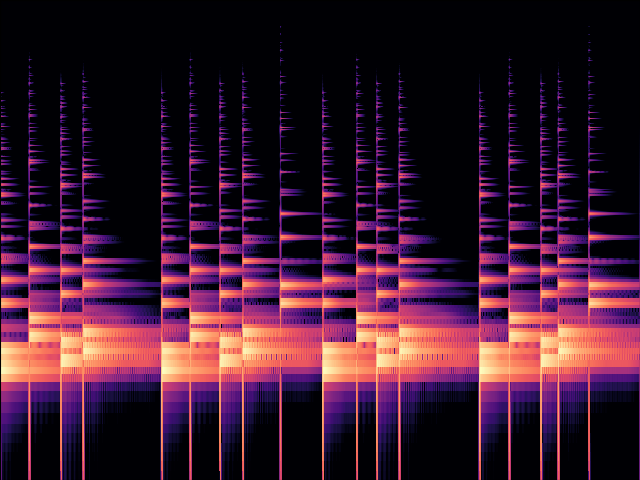
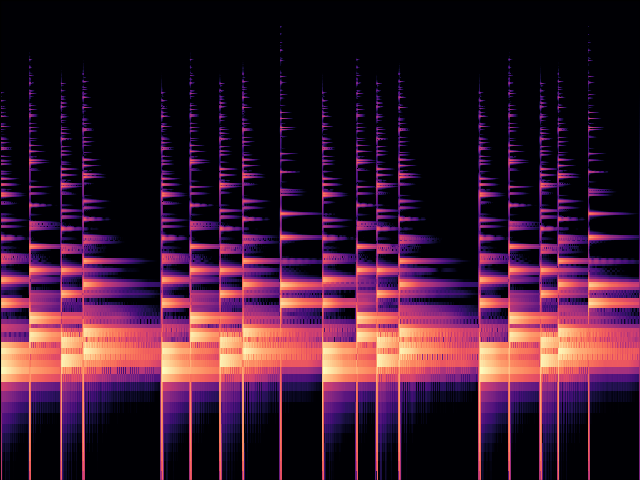
refactored stft_transformer and main

diff --git a/stft_transformer.py b/stft_transformer.py
@@ -3,41 +3,50 @@ import librosa.display
 import numpy as np
 import matplotlib.pyplot as plt
 import soundfile as sf
-
+from utils import AttributeDict
 from pydub import AudioSegment
 from pydub.playback import play
 import imageio
+from sklearn.preprocessing import MinMaxScaler
+from pickle import dump
+import os
 
 class StftTransformer:
     """
-    class is responsible to convert an audio to and from polar coordinates / complex numbers, 
+    class is responsible to convert an audio to and from complex coordinates / complex numbers, 
     and visualizing the file with an audio spectrogram
     """
-
-    def __init__(self, n_fft=200, rate=48000):
+    def __init__(self, n_fft, rate, audio_array, paths:AttributeDict):
+        self.experiment_path = paths.experiment     # root of our experiment
+        self.paths = paths
         self.rate = rate
-        self.hop_length = n_fft // 4
-        self.amplitudes = None
-        self.polar_coords = None
-        self.audio_out = None
+        self.hop_length = n_fft // 4                # hop length standard value
+        self.audio_out = None                       # for reconstructed audio
+        self.scaler_real, self.scaler_imag = None   # for scaling the complex numbers
 
-    def audio_to_polar(self, audio_array: np.array):
-        """sets the polar coordinates and amplitudes instance variable from the audio array"""
-        # open file
-        self.polar_coords = librosa.stft(
+        # converts audio to complex numbers
+        self.complex_coords, self.amplitudes = self._audio_to_complex(audio_array)
+        self._plot_spectrogram(paths.spectrogram)
+
+
+    def _audio_to_complex(self, audio_array: np.array):
+        """sets the complex coordinates and amplitudes instance variable from the audio array"""
+
+        complex_coords = librosa.stft(
             audio_array, hop_length=self.hop_length, window='hann', center=True)  # n_fft=2048,
-        self.amplitudes = np.abs(self.polar_coords)
+        amplitudes = np.abs(self.complex_coords)
+        return complex_coords, amplitudes
 
-    def polar_to_audio(self, outfile_path=None):
+    def complex_to_audio(self, outfile_path=None):
         """
-        inverse short term fourrier transform for audio file reconstruction from polar coordinates.
+        inverse short term fourrier transform for audio file reconstruction from complex coordinates.
         saves audiofile if path is provided
         """
 
-        assert str(type(self.polar_coords)) == "<class 'numpy.ndarray'>"
+        assert str(type(self.complex_coords)) == "<class 'numpy.ndarray'>"
 
         audio_array = librosa.istft(
-            self.polar_coords, hop_length=self.hop_length, window='hann')  # n_fft=2048,
+            self.complex_coords, hop_length=self.hop_length, window='hann')  # n_fft=2048,
         if (outfile_path != None):
             sf.write(outfile_path, audio_array, self.rate, subtype='PCM_24')
             print(f"saved the audio file to {outfile_path}")
@@ -45,23 +54,49 @@ class StftTransformer:
         # sets the audio out (array) instance variable from the saved file
         self.audio_out = AudioSegment.from_wav(outfile_path)
 
-    def polar_to_png(self, outfile_path:str):
+
+    def _scale_complex(self, real, imaginary):
+                
+        # make reversible scaler
+        self.scaler_real = MinMaxScaler()
+        self.scaler_imag = MinMaxScaler()
+        
+        self.scaler_real.fit(real)
+        self.scaler_imag.fit(imaginary)
+
+        real_scaled = self.scaler_real.transform(real)
+        imag_scaled = self.scaler_imag.transform(imaginary)
+
+        # save scalers for inverse later
+        dump(self.scaler_real, os.path.join(self.experiment_path, "scaler_real.pkl"))
+        dump(self.scaler_imag, os.path.join(self.experiment_path, "scaler_imag.pkl"))
+
+        return real_scaled, imag_scaled
+        
+
+
+    def complex_to_png(self):
         """
-        saves polar coordinates to png image
+        saves complex coordinates to png image
         """
-        assert str(type(self.polar_coords)) == "<class 'numpy.ndarray'>"
+        assert str(type(self.complex_coords)) == "<class 'numpy.ndarray'>"
 
         # put the real and imaginary numbers into separate dimensions
-        real = np.real(self.polar_coords)
-        imaginary = np.imag(self.polar_coords)
+        real = np.real(self.complex_coords)
+        imaginary = np.imag(self.complex_coords)
+        real_scaled, imag_scaled = self._scale_complex(real, imaginary)
+        realcomplex = np.stack([real_scaled, imag_scaled, np.ones(real.shape, dtype=np.float)], axis=2)
 
-        realcomplex = np.stack([real, imaginary, np.ones(real.shape, dtype=np.float)], axis=2)
+        # realcomplex = np.abs(realcomplex* 255)
+        imageio.imwrite(uri=self.paths.complex_coords, im=realcomplex)
+        imageio.imwrite(uri=os.path.join(self.experiment_path, "real_scaled.png"), im=real_scaled)
+        imageio.imwrite(uri=os.path.join(self.experiment_path, "imag_scaled.png"), im=imag_scaled)
+        print(f"saved the png files to {self.experiment_path}")
 
-        if (outfile_path != None):
-            imageio.imwrite(uri=outfile_path, im=realcomplex)
-            print(f"saved the png file to {outfile_path}")
 
-    def plot_spectrogram(self, spectrogram_path):
+    def _plot_spectrogram(self, spectrogram_path):
+        """ saves spectrogram image """
+
         fig, ax = plt.subplots()
         img = librosa.display.specshow(librosa.amplitude_to_db(self.amplitudes,
                                                                ref=np.max),
@@ -75,15 +110,6 @@ class StftTransformer:
         # fig.show()
         fig.savefig(spectrogram_path)
 
-        # # and also do the same with only the content
-        # content = self.amplitudes
-        # fig = plt.figure(frameon=False)
-        # fig.set_size_inches(5,5)
-        # ax = plt.Axes(fig, [0., 0., 1., 1.])
-        # ax.set_axis_off()
-        # fig.add_axes(ax)
-        # ax.imshow(content, aspect='auto')
-        # fig.savefig("nobords.png")
 
     def play_sounds(self):
         assert self.audio_out != None

diff --git a/main.py b/main.py
@@ -1,57 +1,65 @@
 import librosa
 import librosa.display
-import numpy as  np
+from enum import Enum
+import os
+from datetime import datetime
 
+from utils import AttributeDict
 from stft_transformer import StftTransformer
 from train import train
 
-def generate_spectrogram(transformer:StftTransformer, spectrogram_path:str):
-    transformer.plot_spectrogram(spectrogram_path) # which saves it
-
-
-from enum import Enum
-
 class Experiment(Enum):
-    TRAIN_RGB = 1
-    TRAIN_POLARS = 2
+    RGB = 1
+    COMPLEX = 2
+
+def set_paths(sound_name):
+    "puts all the paths in a dict"
+    
+    experiment_root = os.path.join("experiments",datetime.now().strftime("%m%d_%H%M%S"))
+    os.mkdir(experiment_root)
+
+    paths = {
+        "experiment" : experiment_root,
+        "input_wav" : os.path.join("samples", f"{sound_name}.wav"),
+        "reconstructed_wav" : os.path.join(experiment_root, f"{sound_name}_reconstruced.wav"),
+        "spectrogram" : os.path.join(experiment_root, f"{sound_name}_spect.png"),
+        "complex_coords" : os.path.join(experiment_root, f"{sound_name}_complex_coords.png"),
+    }
+
+    return AttributeDict(paths)
 
 
-def main():
-
-    # set configuration. TODO: make yaml config
+class config:
     rate = 48000
     n_fft = 2000
-    # hop_length = n_fft // 4
-    training = Experiment.TRAIN_POLARS
-    
-    # files
+    experiment = Experiment.COMPLEX
     sound_name = "bellPlate"
-    path = f"samples/{sound_name}.wav"
-    outfile_path = f"samples/{sound_name}_reconstruced.wav"
-    spectrogram_path = f"spectrograms/{sound_name}.png"
 
-    data, output_length = librosa.load(path, sr=rate)
+def main():
+    # set configuration. TODO: make yaml config    
+    print(f"doing {config.experiment}")
+    paths = set_paths(config.sound_name)
 
-    # make sure data is square
+    data, sample_length = librosa.load(paths.input_wav, sr=config.rate)
 
+    # use transformer object to fourrier transform
+    transformer = StftTransformer(  n_fft=config.n_fft, 
+                                    rate=config.rate, 
+                                    audio_array=data, 
+                                    spect_path=paths.spectrogram)
 
-    # use transformer to fourrier transform and back, and play sound
-    transformer = StftTransformer(n_fft=n_fft, rate=rate)
-    transformer.audio_to_polar(audio_array=data)
+    # TEST 1: generate spectrogram by image. Do NCA on this
+    if (config.experiment == Experiment.RGB):
+        train(image_path=paths.spectrogram)
 
-    # TEST 1: generate spectrogram by image. Will do a NCA on this
-    if (training == Experiment.TRAIN_RGB):
-        print("Experiment with RGB values of spectrogram")
-        generate_spectrogram(transformer, spectrogram_path)
-        train(image_path=spectrogram_path)
-    if (training == Experiment.TRAIN_POLARS):
-        print("Experiment with polar coordinates")
-        transformer.polar_to_png("polar_coords.png")
-        train(image_path="polar_coords.png")
+    # TEST 2: generate spectrogram by complex values. Do NCA on this
+    if (config.experiment == Experiment.COMPLEX):
+        transformer.complex_to_png()
+        train(image_path=paths.complex_coords)
 
     # to test if reverse works
-    transformer.polar_to_audio(outfile_path) # which saves it
-    # transformer.play_sounds() # plays sound
+    transformer.complex_to_audio(paths.reconstructed_wav) # which saves it
+    # transformer.play_sounds() # plays sound # doesn't work on windows
     
 
 print('done')

diff --git a/utils.py b/utils.py
@@ -13,24 +13,10 @@ import imageio
 
 import matplotlib.pyplot as plt
 
-
-def imread(url, max_size=None, mode=None):
-  if url.startswith(('http:', 'https:')):
-    # wikimedia requires a user agent
-    headers = {
-      "User-Agent": "Requests in Colab/0.0 (https://colab.research.google.com/; no-reply@google.com) requests/0.0"
-    }
-    r = requests.get(url, headers=headers)
-    f = io.BytesIO(r.content)
-  else:
-    f = url
-  img = PIL.Image.open(f)
-  if max_size is not None:
-    img.thumbnail((max_size, max_size), PIL.Image.ANTIALIAS)
-  if mode is not None:
-    img = img.convert(mode)
-  img = np.float32(img)/255.0
-  return img
+class AttributeDict(dict):
+    __getattr__ = dict.__getitem__
+    __setattr__ = dict.__setitem__
+    __delattr__ = dict.__delitem__
 
 def np2pil(a):
   if a.dtype in [np.float32, np.float64]:

diff --git a/train.py b/train.py
@@ -6,7 +6,7 @@ and modularized
 
 from NCA import CA
 import imageio
-from utils import imread, imshow, VideoWriter, grab_plot, zoom
+from utils import imshow, VideoWriter, grab_plot, zoom
 import torch.nn.functional as F
 import torchvision.models as models
 import torch
@@ -78,9 +78,8 @@ def train(image_path: str):
     # style_img = imread(url, max_size=128)
     style_img = np.array(imageio.imread(image_path))
     style_img = style_img/255
-    # w, h = style_img.shape 
+    # w, h = style_img.shape
     style_img = style_img[:,:style_img.shape[0], :3]
-
 
     with torch.no_grad():
         style_img = to_nchw(style_img).float()
